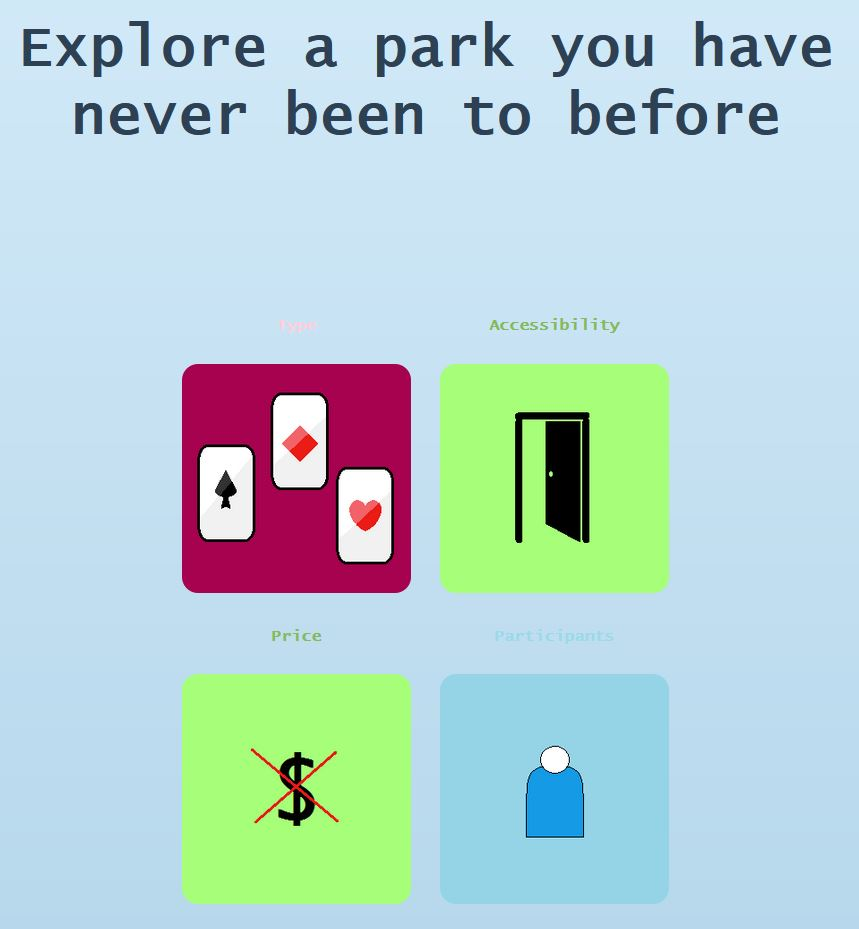
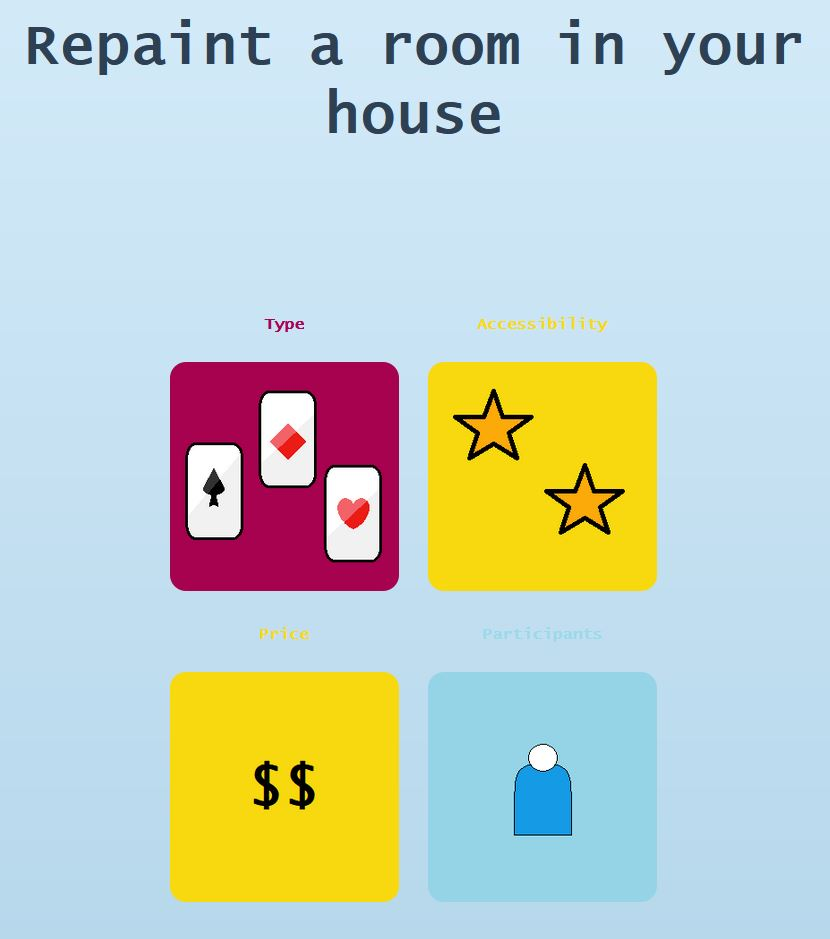
Fixed th color issue for recreational type

diff --git a/scripts/onload.js b/scripts/onload.js
@@ -6,7 +6,7 @@ const IMGCOLORS = {
 	"access0":"#83ba5b", "access1":"#FFF200", "access2":"#FCD914",
 	"access3":"#F9A902", "access4":"#E2121D",
 	
-	"typeeducation":"#7092BE", "typetyperecreational":"#AA0055", "typesocial":"#DCF296",
+	"typeeducation":"#7092BE", "typerecreational":"#AA0055", "typesocial":"#DCF296",
 	"typediy":"#ECCA9B", "typecharity":"#1A697D", "typecooking":"#FFD1BB",
 	"typerelaxation":"#FFF982", "typemusic":"#FFCEDE", "typebusywork":"#88DBFF",
 	
